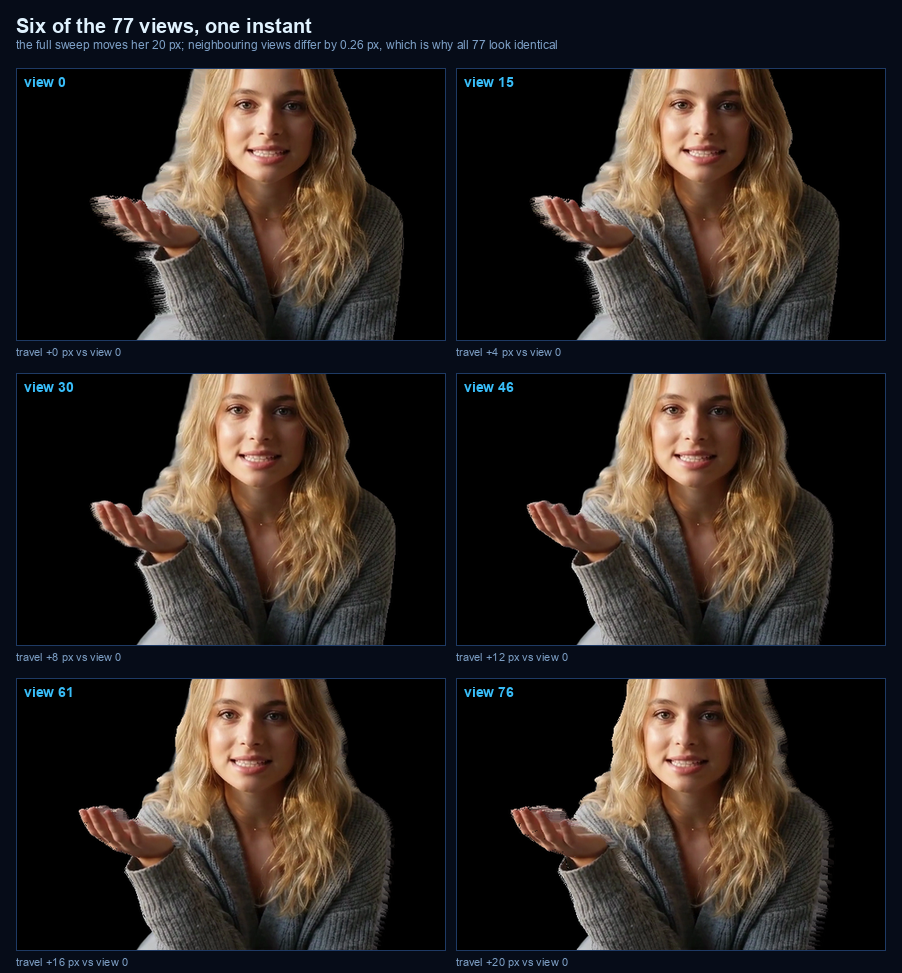
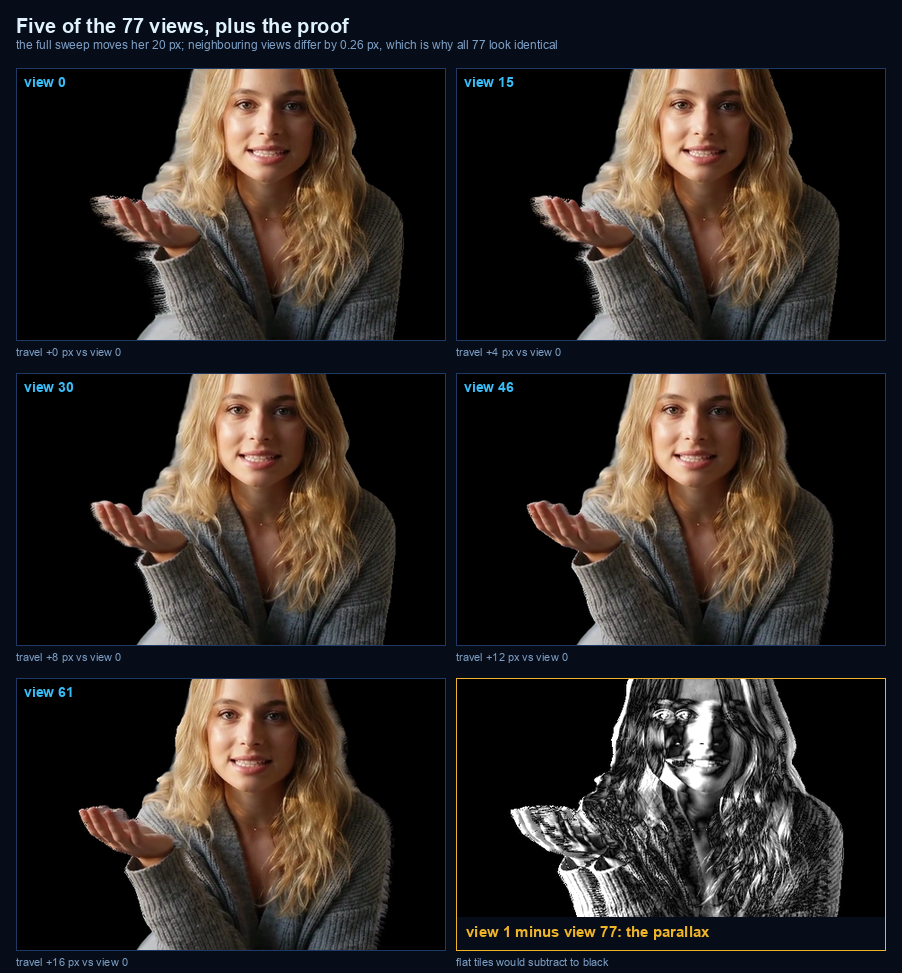
Make both quilt panels argue the same thing
The stage-row sheet and the journey strip show the same stage from different
generators, and only the journey one had been given the difference proof. The sheet
kept showing six lookalike tiles, which is exactly the picture that raises 'where is
the parallax?' and answers it with nothing.

Its last cell is now view 1 minus view 77: her silhouette lights up where the sweep
displaced her, and flat tiles would subtract to black. Caption follows the picture.

Not a staleness fix. The sheet was verified pixel-identical to a fresh build first,
so this is a deliberate difference in what the two panels claimed, not a rebuild.

Changed region(s): [[0.4967, 0.6783, 0.9623, 1.0], [0.031, 0.0, 0.4035, 0.0617], [0.5277, 0.7091, 0.5588, 0.74]]

diff --git a/README.md b/README.md
@@ -258,7 +258,7 @@ Everything below this line is the rendered path.
     <td width="33%" align="center"><img src="assets/render-frame.jpg" alt="Stage 6, a frame under evaluation" width="100%"></td>
     <td width="33%" align="center"><img src="assets/depth.png" alt="Stage 7, the inferred depth map" width="100%"></td>
     <td width="33%" align="center"><img src="assets/views-six.png" alt="Six of the 77 camera views of a single instant, spread across the sweep" width="100%"><br>
-      <sub><b>8. Quilt and 9. Glass.</b> Six of the 77, spread across the sweep rather than neighbours. All of them interleave into the one frame the panel is handed.</sub></td>
+      <sub><b>8. Quilt and 9. Glass.</b> Five of the 77, spread across the sweep rather than neighbours, plus the proof: the amber cell is view 1 minus view 77, so her silhouette lights up exactly where the sweep moved her. No single tile shows parallax, because it lives between tiles. All 77 interleave into the one frame the panel is handed.</sub></td>
   </tr>
 </table>
 
